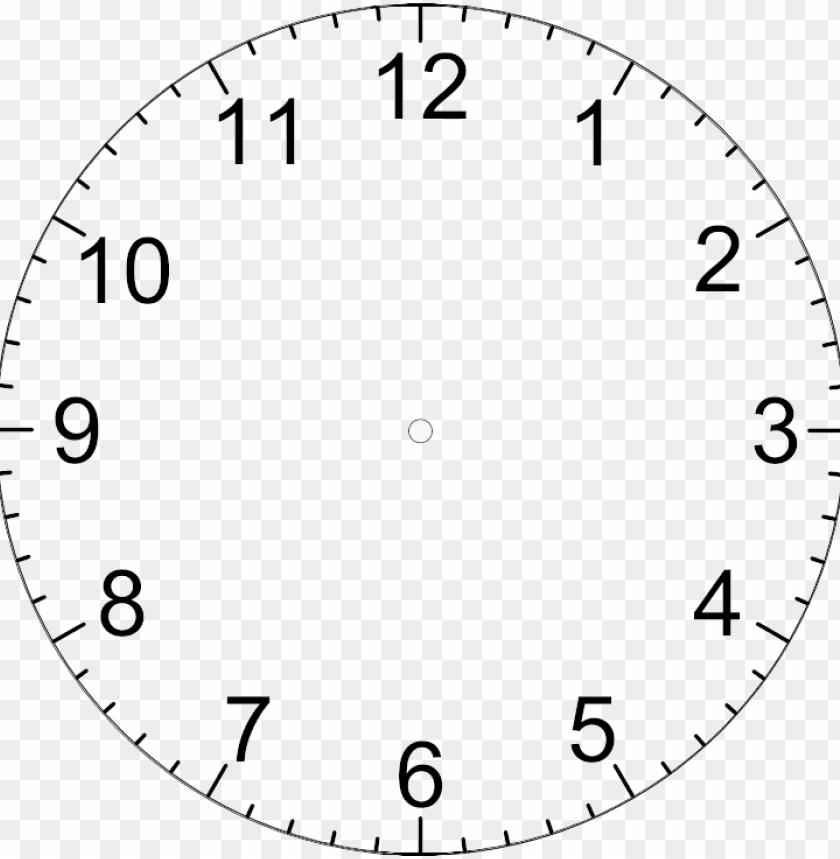
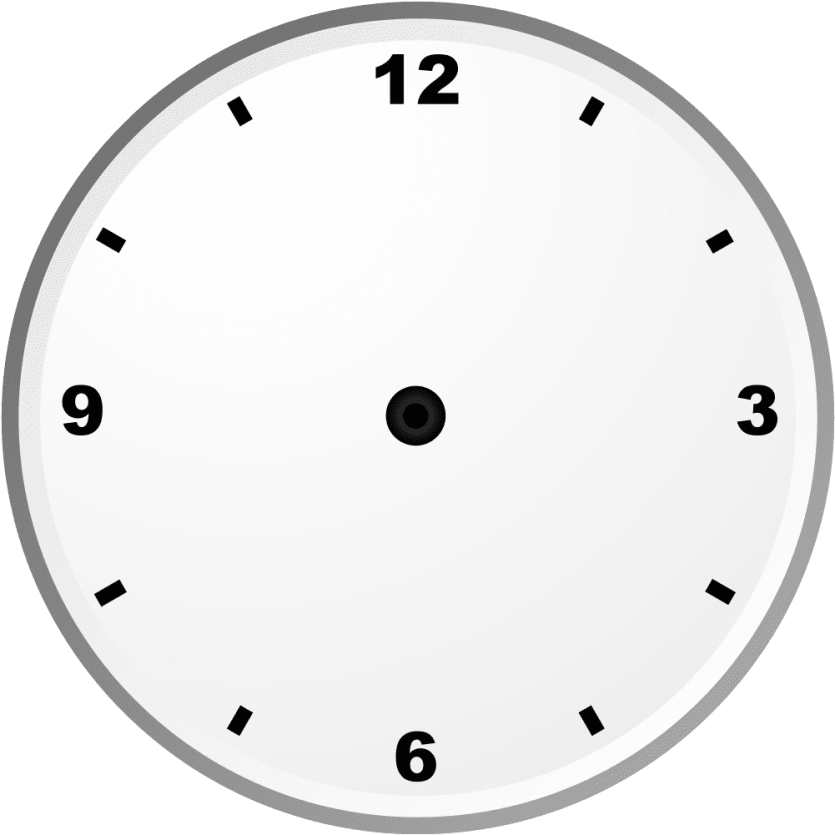
improve ui of the clock

diff --git a/style.css b/style.css
@@ -17,31 +17,44 @@ body{
 
 #hour, #minute, #second {
     position: absolute;
-    background: green;
+    background: black;
     border-radius: 10px;
     transform-origin: bottom;
 }
 
+#circle {
+    position: absolute;
+    background: black;
+    border-radius: 50%;
+    width: 7%;
+    height: 6%;
+    top: 40.6%;
+    left: 46.3%;
+    /* opacity: 0.4; */
+}
 #hour {
     width: 2%;
     height: 15%;
-    top: 30%;
-    left: 49.2%;
+    top: 29.4%;
+    left: 48.8%;
     opacity: 0.8;
 }
 
 #minute {
+    background: blue;
     width: 2%;
     height: 20%;
-    top: 25%;
-    left: 49.2%;
+    top: 24.4%;
+    left: 48.8%;
     opacity: 0.8;
 }
 
 #second {
+    background: red;
     width: 1%;
     height: 28%;
-    top: 17%;
-    left: 49.4%;
+    top: 16.3%;
+    left: 49.2%;
     opacity: 0.8;
 }
+

diff --git a/index.html b/index.html
@@ -9,9 +9,11 @@
 </head>
 <body>
     <div id="clockContainer">
+        
         <div id="hour"></div>
         <div id="minute"></div>
         <div id="second"></div>
+        <div id = "circle"></div>
     </div>
     <script src="script.js"></script>
 
